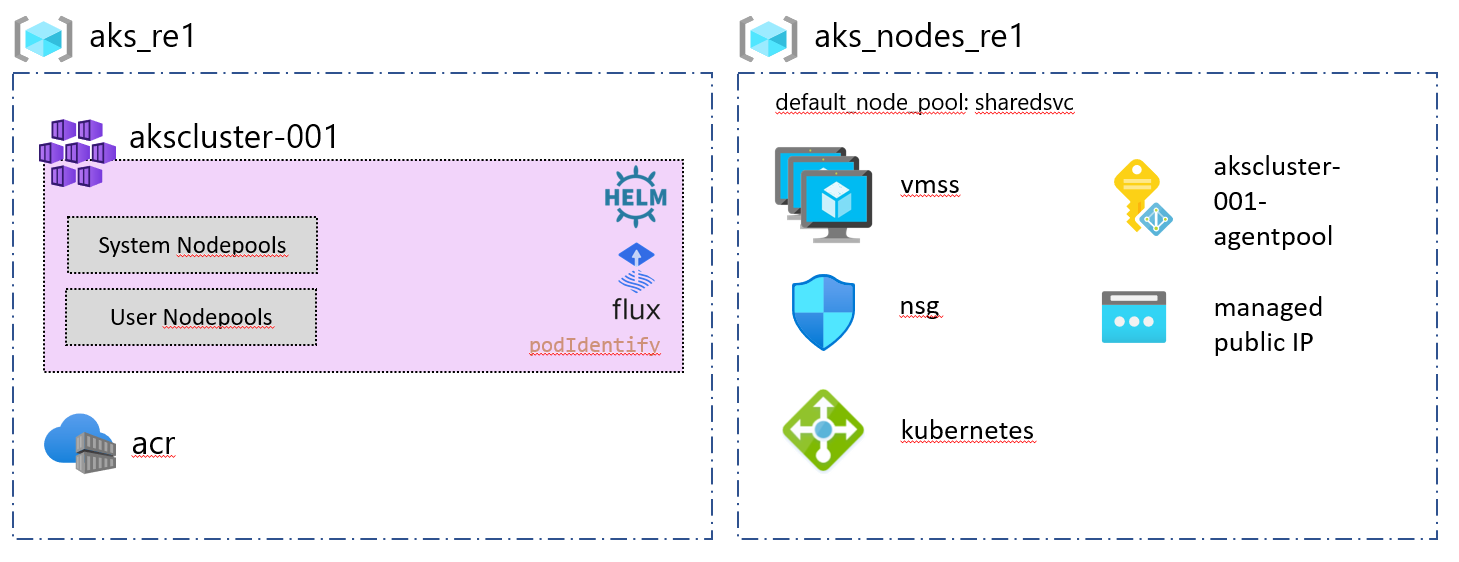
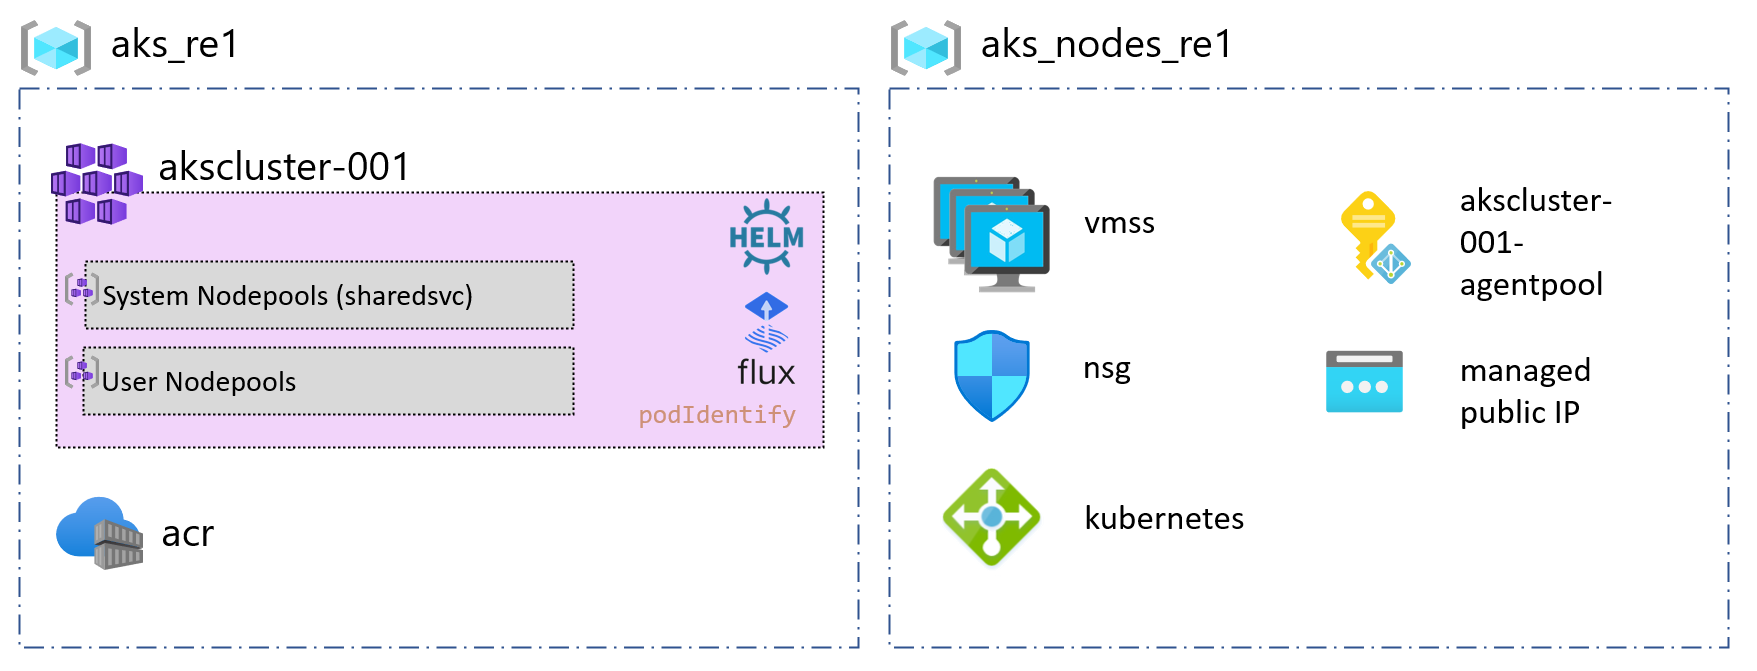
README

diff --git a/examples/aks/103-multi-clusters/README.md b/examples/aks/103-multi-clusters/README.md
@@ -1,37 +1,94 @@
-# Multi Clusters example
+# CAF landing zones for Terraform - AKS Multi Clusters example
 
-Deploys Multiple Clusters within different VNETs:
-- 1 in Southeast Asia - Availability Zone [1] enabled for Default System Pool & User Pool1
-- 1 in East Asia - no Availability Zone
+Deploys two AKS cluster in two regions, with two virtual networks:
+- 1 in region1 - Availability zones (1,2,3) enabled for Default System Pool
+- 1 in region2 - no Availability Zone
 
-### 1. Rover login, Environment & example set
+AKS landing zone operates at **level 3**.
+
+For a review of the hierarchy approach of Cloud Adoption Framework for Azure landing zones on Terraform, you can refer to [the following documentation](../../../../documentation/code_architecture/hierarchy.md).
+
+## Architecture diagram
+
+This example will sit on the [prerequisites environment](../../readme.md) and will allow you to deploy the following additional topology:
+
+![solutions](../../../_pictures/examples/103-multi-clusters.PNG)
+
+## Components deployed by this example
+
+| Component                                | Type of resource                 | Purpose                                                        |
+|------------------------------------------|----------------------------------|----------------------------------------------------------------|
+| aks_re1, aks_nodes_re1                   | Resource group                   | resource group to host the cluster and the node pool resources |
+| re1-001, re2-001                         | AKS Cluster                      | AKS Cluster                                                    |
+| acr, acr replicas in region1 and region2 | Azure Container Registry         | Azure Container Registry with replication                      |
+| sharedsvc on re1-001, re2-001            | AKS node pool                    | re1-001 node pool available within 3 availability zones.       |
+| managed public IP                        | Public IP                        | Public IP address for the node pools.                          |
+| managed VMSS                             | Virtual Machines Scale Sets      | Scale sets for the node pools.                                 |
+| managed load balancer                    | Load balancer                    | Load balancer for the node pools.                              |
+| re1-001 and re2-001 agentpool            | System Assigned Managed Identity | Managed identity for the node pools.                           |
+| private link            | Private link for ACR | Private link for AKS cluster to access ACR                           |
+| network interface cards         | network interface cards | NIC for private link for AKS cluster to access ACR                           |
+
+## Deploying this example
+
 Ensure the below is set prior to apply or destroy.
+
 ```bash
 # Login the Azure subscription
 rover login -t [TENANT_ID/TENANT_NAME] -s [SUBSCRIPTION_GUID]
 # Environment is needed to be defined, otherwise the below LZs will land into sandpit which someone else is working on
 export environment=[YOUR_ENVIRONMENT]
-
+export example=103-multi-clusters
 ```
 
-```bash
-# Set the folder name of this example
-example=103-multi-clusters
+### Deploy networking for multi region model
 
-# Deploy networking
+/!\ Please make sure you run the multi region network model before applying this landing zones, this will enable virtual networks in both region1 and region2, with network peering enabled:
+
+```bash
 rover -lz /tf/caf/public/landingzones/caf_networking/ \
   -tfstate networking_spoke_aks.tfstate \
   -var-folder /tf/caf/examples/1-dependencies/networking/spoke_aks/multi_region \
   -env ${environment} \
   -level level3 \
   -a [plan|apply]
-# Run AKS landing zone deployment
+```
+
+### Run AKS landing zone deployment
+
+```bash
+rover -lz /tf/caf/ \
+  -tfstate landingzone_aks.tfstate \
+  -var-folder /tf/caf/examples/aks/${example} \
+  -var tags={example=\"${example}\"} \
+  -env ${environment} \
+  -level level3 \
+  -a [plan|apply]
+```
+
+## Destroy this example
+
+Have fun playing with the landing zone an once you are done, you can simply delete the deployment using:
+
+```bash
+# Set the folder name of this example
+export example=102-multi-nodepools
 
 rover -lz /tf/caf/ \
   -tfstate landingzone_aks.tfstate \
   -var-folder /tf/caf/examples/aks/${example} \
   -var tags={example=\"${example}\"} \
+  -env ${environment} \
   -level level3 \
-  -a [plan|apply]
+  -a destroy -auto-approve
 ```
 
+You can also destroy the network model:
+```bash
+rover -lz /tf/caf/public/landingzones/caf_networking/ \
+  -tfstate networking_spoke_aks.tfstate \
+  -var-folder /tf/caf/examples/1-dependencies/networking/spoke_aks/multi_region \
+  -env ${environment} \
+  -level level3 \
+  -a destroy -auto-approve
+```

diff --git a/examples/README.md b/examples/README.md
@@ -1,14 +1,16 @@
-# Deployment of the landing zones to support AKS clusters
+# CAF landing zones for Terraform - AKS landing zone examples
 
-The following steps guides you with the deployment of the landing zones required to run the examples.
+AKS landing zones are designed to fit into an enterprise-scale environment, you can set a quick environment using the steps in this guide.
 
-## Setting up test environment
+## Setting up your environment
 
-AKS landing zone operates at **level 3**.
+AKS landing zone operates at **level 3**, so before you are able to deploy them you will need to deploy the prerequisites enterprise landing zones.
 
 For a review of the hierarchy approach of Cloud Adoption Framework for Azure landing zones on Terraform, you can refer to [the following documentation](https://github.com/Azure/caf-terraform-landingzones/blob/master/documentation/code_architecture/hierarchy.md).
 
-With the following steps, you can deploy a simplified enterprise framework that setups the minimal foundations for enterprise. Once those steps are completed, you will be able to scaffold the AKS landing zones:
+With the following steps, you can deploy a simplified enterprise framework that setups the minimal foundations for enterprise.
+
+Once those steps are completed, you will be able to run the AKS landing zones:
 
 ### Authenticate to your development environment
 
@@ -28,7 +30,7 @@ export environment=[YOUR_ENVIRONMENT]
 ```bash
 # Level 0 - foundations services for devops
 # Add the lower dependency landingzones
-git clone --branch 0.4 https://github.com/Azure/caf-terraform-landingzones.git /tf/caf/public
+git clone [--branch 0.4] https://github.com/Azure/caf-terraform-landingzones.git /tf/caf/public
 
 # Deploy the launchpad to store the tfstates
 # the /tf/caf/configuration/level0/100 is a tier down version of the caf_launchpad scenario 200
@@ -73,11 +75,11 @@ rover -lz /tf/caf/public/landingzones/caf_networking/ \
 
 ```
 
-Once the previous steps have been completed, the deployment of the lightweigth enterprise scaffold to execute the AKS example landingzones is ready and you can step to one of the examples.
+Once the previous steps have been completed, the deployment of the lightweight enterprise scaffold to execute the AKS example landingzones is ready and you can step to one of the examples.
 
-## Examples
+## AKS landing zones examples
 
-The CAF landing zone for AKS provides you with the following examples
+The CAF landing zone for AKS provides you with the following examples:
 
 ### Core AKS landing zone
 
@@ -86,8 +88,8 @@ You can find detailed steps for each of the following scenario:
 | AKS landing zone example                                                                                              | Description                                                |
 |---------------------------------------------------------------------------------------------------|------------------------------------------------------------|
 | [101-single-cluster](./aks/101-single-cluster)| Provision single AKS cluster within open virtual network |
-| [102-multi-nodepools](./aks/102-multi-nodepools)| Provision single AKS cluster with multiple node pool within separate subnet (1 open virtual network)|
-| [103-multi-clusters](./aks/103-multi-clusters)| Provision multiple AKS clusters in separate regions (different open virtual network)                     |
+| [102-multi-nodepools](./aks/102-multi-nodepools)| Provision single AKS cluster with multiple node pool within separate subnet (1 open virtual network). |
+| [103-multi-clusters](./aks/103-multi-clusters)| Provision multiple AKS clusters in separate regions, using availability zones.                     |
 | [104-private-cluster](./aks/104-private-cluster)| Provision private AKS clusters within private virtual network with Hub & Spoke UDR to Azure Firewall |
 
 ### AKS Application landing zone

diff --git a/examples/aks/102-multi-nodepools/README.md b/examples/aks/102-multi-nodepools/README.md
@@ -1,8 +1,31 @@
-# Single Cluster example
+# CAF landing zones for Terraform - AKS Single Cluster multi node pools example
 
-Deploys a Single AKS cluster in a virtual network.
+Deploys a Single AKS cluster in a virtual network, with multiple node pools
 
-### 1. Rover login, Environment & example set
+AKS landing zone operates at **level 3**.
+
+For a review of the hierarchy approach of Cloud Adoption Framework for Azure landing zones on Terraform, you can refer to [the following documentation](../../../../documentation/code_architecture/hierarchy.md).
+
+## Architecture diagram
+
+This example will sit on the [prerequisites environment](../../readme.md) and will allow you to deploy the following additional topology:
+
+![solutions](../../../_pictures/examples/102-multi-nodepools.PNG)
+
+## Components deployed by this example
+
+| Component                                | Type of resource | Purpose |
+| --------------------------               | ---------------------------------- | ---------------------------------------------------------------- |
+| aks_re1, aks_nodes_re1                   | Resource group | resource group to host the cluster and the node pool resources |
+| akscluster-001                           | AKS Cluster | AKS Cluster |
+| acr                                      | Azure Container Registry | Azure Container Registry to store containers |
+| sharedsvc, nodepool2       AKS node pool | Default node pool and user node pool. |
+| managed public IP                        | Public IP | Public IP address for the node pools. |
+| managed VMSS                             | Virtual Machines Scale Sets | Scale sets for the node pools. |
+| managed load balancer                    | Load balancer | Load balancer for the node pools. |
+| akscluster-001-agentpool                 | System Assigned Managed Identity | Managed identity for the node pools. |
+
+## Deploying this example
 
 Ensure the below is set prior to apply or destroy.
 
@@ -10,33 +33,32 @@ Ensure the below is set prior to apply or destroy.
 # Login the Azure subscription
 rover login -t [TENANT_ID/TENANT_NAME] -s [SUBSCRIPTION_GUID]
 # Environment is needed to be defined, otherwise the below LZs will land into sandpit which someone else is working on
-environment=[YOUR_ENVIRONMENT]
-# Set the folder name of this example
-example=102-multi-nodepools
-
+export environment=[YOUR_ENVIRONMENT]
 ```
-### 2. Deploy the dependency landingzones
 
-
-### 3. Apply landingzones
-
-# Run AKS landing zone deployment
+## Run AKS landing zone deployment
 
 ```bash
+# Set the folder name of this example
+export example=102-multi-nodepools
+
 rover -lz /tf/caf/ \
   -tfstate landingzone_aks.tfstate \
   -var-folder /tf/caf/examples/aks/${example} \
   -var tags={example=\"${example}\"} \
   -env ${environment} \
   -level level3 \
-  -a apply
+  -a [plan|apply]
 ```
 
-### 3. Destroy Landing zones
+## Destroy an AKS landing zone deployment
 
 Have fun playing with the landing zone an once you are done, you can simply delete the deployment using:
 
 ```bash
+# Set the folder name of this example
+export example=102-multi-nodepools
+
 rover -lz /tf/caf/ \
   -tfstate landingzone_aks.tfstate \
   -var-folder /tf/caf/examples/aks/${example} \
@@ -44,5 +66,4 @@ rover -lz /tf/caf/ \
   -env ${environment} \
   -level level3 \
   -a destroy -auto-approve
-
 ```

diff --git a/examples/aks/101-single-cluster/README.md b/examples/aks/101-single-cluster/README.md
@@ -1,6 +1,6 @@
 # CAF landing zones for Terraform - AKS Single Cluster example
 
-Deploys a Single AKS cluster in a virtual network.
+Deploys a Single AKS cluster in a virtual network, with one node pool.
 
 AKS landing zone operates at **level 3**.
 
@@ -8,7 +8,7 @@ For a review of the hierarchy approach of Cloud Adoption Framework for Azure lan
 
 ## Architecture diagram
 
-This example will sit on the prerequisites environment and will allow you to deploy the following additional topology:
+This example will sit on the [prerequisites environment](../../readme.md) and will allow you to deploy the following additional topology:
 
 ![solutions](../../../_pictures/examples/101-single-cluster.PNG)
 
@@ -19,7 +19,7 @@ This example will sit on the prerequisites environment and will allow you to dep
 | aks_re1, aks_nodes_re1   | Resource group                   | resource group to host the cluster and the node pool resources |
 | akscluster-001           | AKS Cluster                      | AKS Cluster                                                    |
 | acr                      | Azure Container Registry         | Azure Container Registry to store containers                   |
-| sharedsvc                | AKS node pool                    | Initial AKS node pool for AKS cluster                          |
+| sharedsvc                | AKS node pool                    | Default node pool for AKS cluster                              |
 | managed public IP        | Public IP                        | Public IP address for the node pool.                           |
 | managed VMSS             | Virtual Machines Scale Set       | Scale set for the node pool.                                   |
 | managed load balancer    | Load balancer                    | Load balancer for the node pool.                               |
@@ -35,6 +35,7 @@ rover login -t [TENANT_ID/TENANT_NAME] -s [SUBSCRIPTION_GUID]
 # Environment is needed to be defined, otherwise the below LZs will land into sandpit which someone else is working on
 export environment=[YOUR_ENVIRONMENT]
 ```
+
 ## Run AKS landing zone deployment
 
 ```bash
@@ -47,7 +48,7 @@ rover -lz /tf/caf/ \
   -var tags={example=\"${example}\"} \
   -env ${environment} \
   -level level3 \
-  -a apply
+  -a [plan|apply]
 ```
 
 ## Destroy an AKS landing zone deployment
